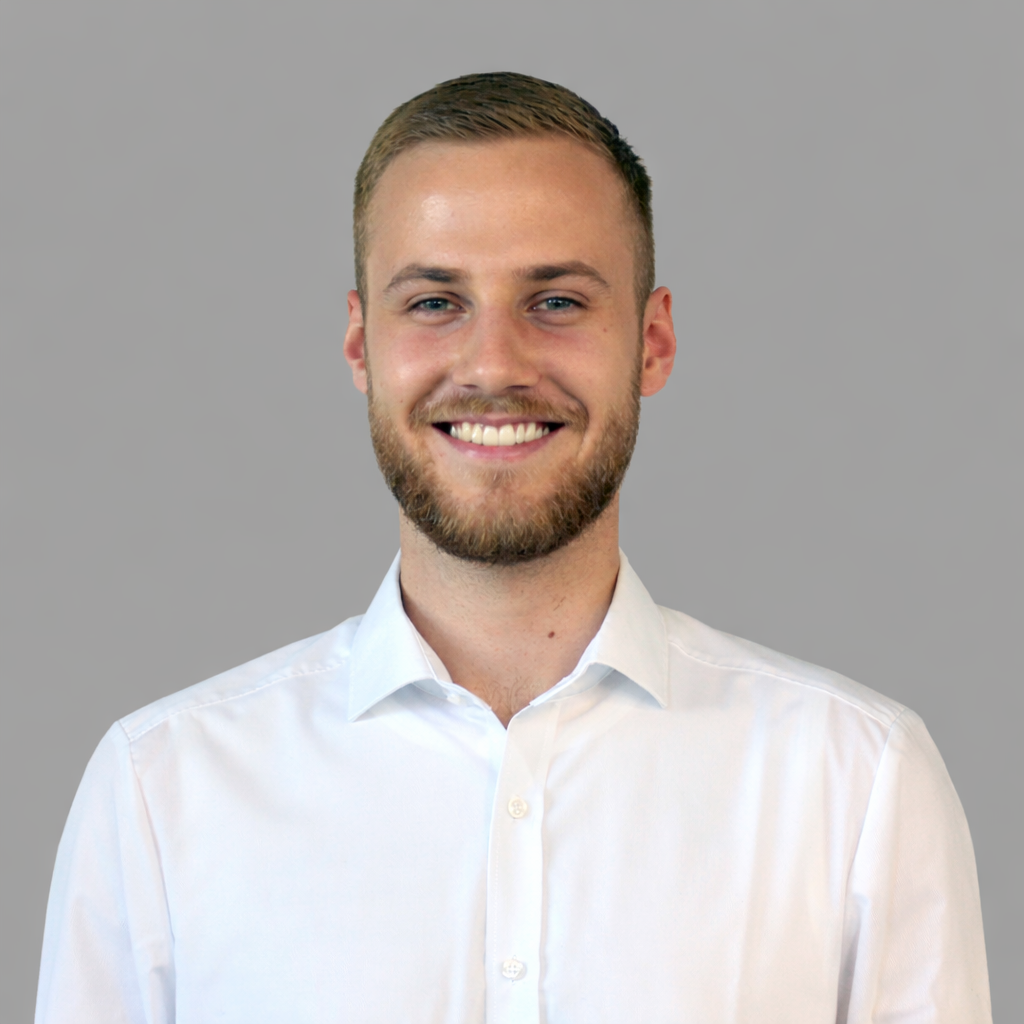
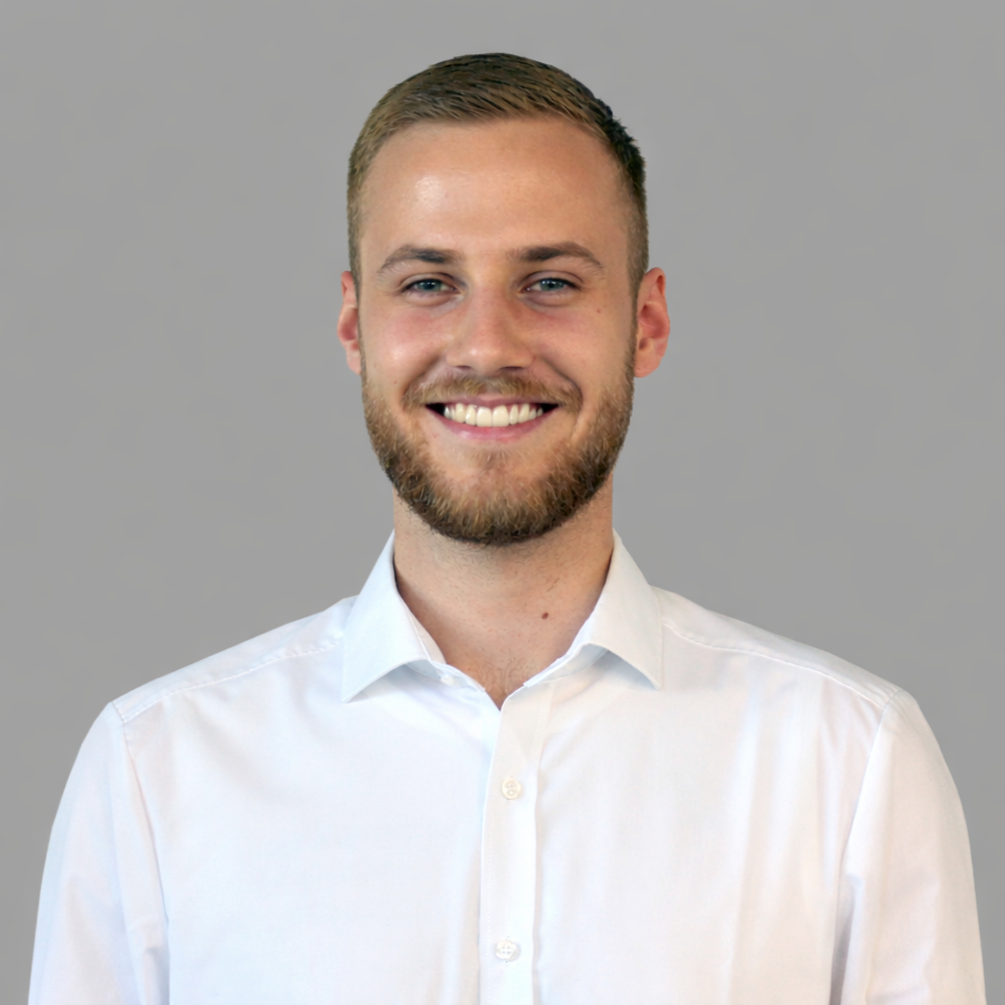
Updated v1

diff --git a/components/pages/about/founders.tsx b/components/pages/about/founders.tsx
@@ -1,0 +1,236 @@
+"use client"
+
+import Image from "next/image"
+import Link from "next/link"
+import { useState } from "react"
+import { motion } from "framer-motion"
+import { Mail, ExternalLink, ArrowRight, Linkedin, GraduationCap } from "lucide-react"
+import type { Locale } from "@/lib/dictionary"
+
+interface Founder {
+  name: string
+  role: string
+  image: string
+  education: string[]
+  bio: string
+  email: string
+  cvLink: string
+  linkedIn?: string
+}
+
+const fadeUpVariants = {
+  hidden: { opacity: 0, y: 30 },
+  visible: { opacity: 1, y: 0 },
+}
+
+const staggerContainer = {
+  hidden: {},
+  visible: {
+    transition: {
+      staggerChildren: 0.2,
+    },
+  },
+}
+
+function FlipCard({
+  founder,
+  cvLinkText,
+  flipHint,
+}: {
+  founder: Founder
+  cvLinkText: string
+  flipHint: string
+}) {
+  const [isFlipped, setIsFlipped] = useState(false)
+
+  return (
+    <motion.div
+      variants={fadeUpVariants}
+      transition={{ duration: 0.6, ease: "easeOut" }}
+      className="w-full max-w-[340px] sm:max-w-[360px] mx-auto"
+    >
+      {/* Card container with perspective */}
+      <div
+        className="perspective-1000 cursor-pointer group"
+        onClick={() => setIsFlipped(!isFlipped)}
+      >
+        <div
+          className="relative w-full aspect-[3/4] transition-transform duration-700 ease-in-out transform-style-3d"
+          style={{
+            transform: isFlipped ? "rotateY(180deg)" : "rotateY(0deg)",
+          }}
+        >
+          {/* ===== FRONT ===== */}
+          <div className="absolute inset-0 backface-hidden rounded-2xl overflow-hidden shadow-lg">
+            {/* Image */}
+            <Image
+              src={founder.image}
+              alt={founder.name}
+              fill
+              className="object-cover object-top"
+              sizes="(max-width: 640px) 90vw, 360px"
+            />
+
+            {/* Gradient overlay at bottom */}
+            <div className="absolute inset-x-0 bottom-0 h-2/5 bg-gradient-to-t from-black/70 via-black/30 to-transparent" />
+
+            {/* Text on front */}
+            <div className="absolute inset-x-0 bottom-0 p-5 sm:p-6 text-white">
+              <h3 className="font-serif text-xl sm:text-2xl leading-tight tracking-tight">
+                {founder.name}
+              </h3>
+              <p className="mt-1 text-sm sm:text-base text-white/80">
+                {founder.role}
+              </p>
+              <p className="mt-3 text-xs text-white/50 flex items-center gap-1.5">
+                <span className="inline-block w-4 h-[1px] bg-white/40" />
+                {flipHint}
+              </p>
+            </div>
+          </div>
+
+          {/* ===== BACK ===== */}
+          <div className="absolute inset-0 backface-hidden rotate-y-180 rounded-2xl overflow-hidden shadow-lg">
+            <Image
+              src={founder.image}
+              alt=""
+              fill
+              className="object-cover object-top scale-110 blur-md"
+              sizes="360px"
+              aria-hidden="true"
+            />
+            <div className="absolute inset-0 bg-white/80 backdrop-blur-xl" />
+
+            {/* Content */}
+            <div className="relative h-full flex flex-col justify-between p-6 sm:p-7">
+              {/* Top: Name */}
+              <div>
+                <h3 className="font-serif text-xl sm:text-2xl leading-tight tracking-tight text-black">
+                  {founder.name}
+                </h3>
+                <p className="mt-1 text-sm text-black/60">{founder.role}</p>
+
+                {/* Education */}
+                <div className="mt-4 flex flex-col gap-1.5">
+                  {founder.education.map((edu) => (
+                    <div key={edu} className="flex items-start gap-2 text-xs sm:text-sm text-black/70">
+                      <GraduationCap className="w-4 h-4 shrink-0 mt-0.5 text-[#21569c]" />
+                      <span>{edu}</span>
+                    </div>
+                  ))}
+                </div>
+
+                {/* Bio */}
+                <p className="mt-4 text-sm sm:text-base leading-relaxed text-black/75">
+                  {founder.bio}
+                </p>
+              </div>
+
+              {/* Bottom: Links */}
+              <div className="mt-5 flex flex-col gap-2">
+                <a
+                  href={`mailto:${founder.email}`}
+                  onClick={(e) => e.stopPropagation()}
+                  className="flex items-center gap-2 text-sm text-black/60 hover:text-black transition-colors"
+                >
+                  <Mail className="w-4 h-4 shrink-0" />
+                  {founder.email}
+                </a>
+                {founder.cvLink && (
+                  <a
+                    href={founder.cvLink}
+                    target="_blank"
+                    rel="noopener noreferrer"
+                    onClick={(e) => e.stopPropagation()}
+                    className="flex items-center gap-2 text-sm text-black/60 hover:text-black transition-colors"
+                  >
+                    <ExternalLink className="w-4 h-4 shrink-0" />
+                    {cvLinkText}
+                  </a>
+                )}
+                {founder.linkedIn && (
+                  <a
+                    href={founder.linkedIn}
+                    target="_blank"
+                    rel="noopener noreferrer"
+                    onClick={(e) => e.stopPropagation()}
+                    className="flex items-center gap-2 text-sm text-black/60 hover:text-black transition-colors"
+                  >
+                    <Linkedin className="w-4 h-4 shrink-0" />
+                    LinkedIn
+                  </a>
+                )}
+              </div>
+            </div>
+          </div>
+        </div>
+      </div>
+    </motion.div>
+  )
+}
+
+export function FoundersSection({ lang, dict }: { lang: Locale; dict: any }) {
+  const f = dict.aboutPage.founders
+
+  return (
+    <section className="relative pt-8 pb-8 md:pt-12 md:pb-16">
+      <div className="max-w-[1400px] mx-auto px-4 sm:px-6 lg:px-8">
+        {/* Header */}
+        <motion.div
+          className="text-center"
+          initial="hidden"
+          whileInView="visible"
+          viewport={{ once: true, margin: "-50px" }}
+          variants={fadeUpVariants}
+          transition={{ duration: 0.7, ease: "easeOut" }}
+        >
+          <h2 className="font-serif text-[2.6rem] sm:text-[3.15rem] md:text-[3.6rem] leading-[1.05] tracking-tight text-black whitespace-pre-line text-balance">
+            {f.title}
+          </h2>
+          <p className="mt-4 text-sm sm:text-base leading-relaxed text-black/75 max-w-[54ch] mx-auto whitespace-pre-line">
+            {f.subtitle}
+          </p>
+        </motion.div>
+
+        {/* Cards Grid */}
+        <motion.div
+          className="mt-12 sm:mt-14 grid grid-cols-1 sm:grid-cols-2 gap-8 sm:gap-10 lg:gap-14 max-w-[800px] mx-auto"
+          initial="hidden"
+          whileInView="visible"
+          viewport={{ once: true, amount: 0.2 }}
+          variants={staggerContainer}
+        >
+          {f.members.map((member: Founder) => (
+            <FlipCard
+              key={member.name}
+              founder={member}
+              cvLinkText={f.cvLinkText}
+              flipHint={f.flipHint}
+            />
+          ))}
+        </motion.div>
+
+        {/* CTA */}
+        <motion.div
+          className="mt-12 sm:mt-14 text-center"
+          initial="hidden"
+          whileInView="visible"
+          viewport={{ once: true, margin: "-50px" }}
+          variants={fadeUpVariants}
+          transition={{ duration: 0.7, ease: "easeOut", delay: 0.2 }}
+        >
+          <p className="text-sm sm:text-base leading-relaxed text-black/75 max-w-[48ch] mx-auto">
+            {f.ctaText}
+          </p>
+          <Link
+            href={`/${lang}/about/#book`}
+            className="mt-5 inline-flex items-center justify-center px-5 py-3 sm:px-6 sm:py-3.5 text-sm sm:text-base font-medium text-white bg-[#21569c] hover:bg-[#21569c]/85 rounded-xl transition-colors duration-200"
+          >
+            {f.ctaButton}
+            <ArrowRight className="ml-2 h-4 w-4 sm:h-5 sm:w-5" />
+          </Link>
+        </motion.div>
+      </div>
+    </section>
+  )
+}

diff --git a/lib/dictionary.ts b/lib/dictionary.ts
@@ -140,6 +140,36 @@ const dictionaries = {
           },
         ],
       },
+      founders: {
+        title: "Die Gründer",
+        subtitle: "Lernen Sie die Köpfe hinter smiit kennen - Sebastian und Noah",
+        flipHint: "Karte antippen für mehr",
+        members: [
+          {
+            name: "Sebastian Grab",
+            role: "Co-Founder & Software Entwickler",
+            image: "/assets/people/sebastian.png",
+            education: ["B.A. BWL - Industrie", "M.Sc. Digital Processes and Technologies"],
+            bio: "Ich verantworte die technische Architektur und Umsetzung unserer Lösungen. Mein Fokus liegt darauf, aus Anforderungen robuste Systeme zu entwickeln – von Datenanalysen über Prozessautomatisierungen bis hin zu individuellen Web-Applikationen.",
+            email: "sebastian.grab@smiit.de",
+            cvLink: "https://grab.smiit.de",
+            linkedIn: "https://www.linkedin.com/in/sebastian-grab/",
+          },
+          {
+            name: "Noah Neßlauer",
+            role: "Co-Founder & Business Analyst",
+            image: "/assets/people/noah.png",
+            education: ["B.A. BWL - Industrie", "M.Sc. Consulting & Business Analytics"],
+            bio: "Ich begleite unsere Kunden von der ersten Analyse bis zur Umsetzung der passenden Lösung. Gemeinsam identifizieren wir Herausforderungen, strukturieren Anforderungen und entwickeln datengetriebene Ansätze, die wirklich Mehrwert schaffen.",
+            email: "noah.nesslauer@smiit.de",
+            cvLink: "https://nesslauer.smiit.de",
+            linkedIn: "https://www.linkedin.com/in/noah-nesslauer/",
+          },
+        ],
+        cvLinkText: "Lebenslauf",
+        ctaText: "Lassen Sie uns gemeinsam herausfinden, wie wir Ihr Unternehmen voranbringen können.",
+        ctaButton: "Kostenloses Erstgespräch buchen",
+      },
     },
     contact: {
       titlePrefix: "",
@@ -339,9 +369,39 @@ const dictionaries = {
           },
           {
             title: "Collaborative Partnership",
-            text: "We don't work for our clients – we work with them. Open communication, collaboration at eye level, and joy in shared projects are the foundation of successful outcomes.",
+            text:           "We don't work for our clients – we work with them. Open communication, collaboration at eye level, and joy in shared projects are the foundation of successful outcomes.",
           },
         ],
+      },
+      founders: {
+        title: "The Founders",
+        subtitle: "Meet the minds behind smiit - Sebastian and Noah",
+        flipHint: "Tap card for more",
+        members: [
+          {
+            name: "Sebastian Grab",
+            role: "Co-Founder & Software Engineer",
+            image: "/assets/people/sebastian.png",
+            education: ["B.A. BWL - Industrie", "M.Sc. Digital Processes and Technologies"],
+            bio: "I am responsible for the technical architecture and implementation of our solutions. My focus is on developing robust systems based on requirements – from data analysis and process automation to customized web applications.",
+            email: "sebastian.grab@smiit.de",
+            cvLink: "https://grab.smiit.de",
+            linkedIn: "https://www.linkedin.com/in/sebastian-grab/",
+          },
+          {
+            name: "Noah Neßlauer",
+            role: "Co-Founder & Business Analyst",
+            image: "/assets/people/noah.png",
+            education: ["B.A. BWL - Industrie", "M.Sc. Consulting & Business Analytics"],
+            bio: "I accompany our customers from the initial analysis to the implementation of the appropriate solution. Together, we identify challenges, structure requirements, and develop data-driven approaches that truly add value.",
+            email: "noah.nesslauer@smiit.de",
+            cvLink: "https://nesslauer.smiit.de",
+            linkedIn: "https://www.linkedin.com/in/noah-nesslauer/",
+          },
+        ],
+        cvLinkText: "Resume",
+        ctaText: "Let's find out together how we can move your business forward.",
+        ctaButton: "Book a free consultation",
       },
     },
     contact: {

diff --git a/components/pages/AboutPage.tsx b/components/pages/AboutPage.tsx
@@ -3,6 +3,7 @@
 import type { Locale } from "@/lib/dictionary"
 import { HeroSection } from "@/components/pages/about/hero-section"
 import { MissionSection } from "@/components/pages/about/mission"
+import { FoundersSection } from "@/components/pages/about/founders"
 
 export default function AboutPage({
   lang,
@@ -15,6 +16,7 @@ export default function AboutPage({
     <main>
       <HeroSection lang={lang} dict={dict} />
       <MissionSection dict={dict} />
+      <FoundersSection lang={lang} dict={dict} />
     </main>
   )
 }
